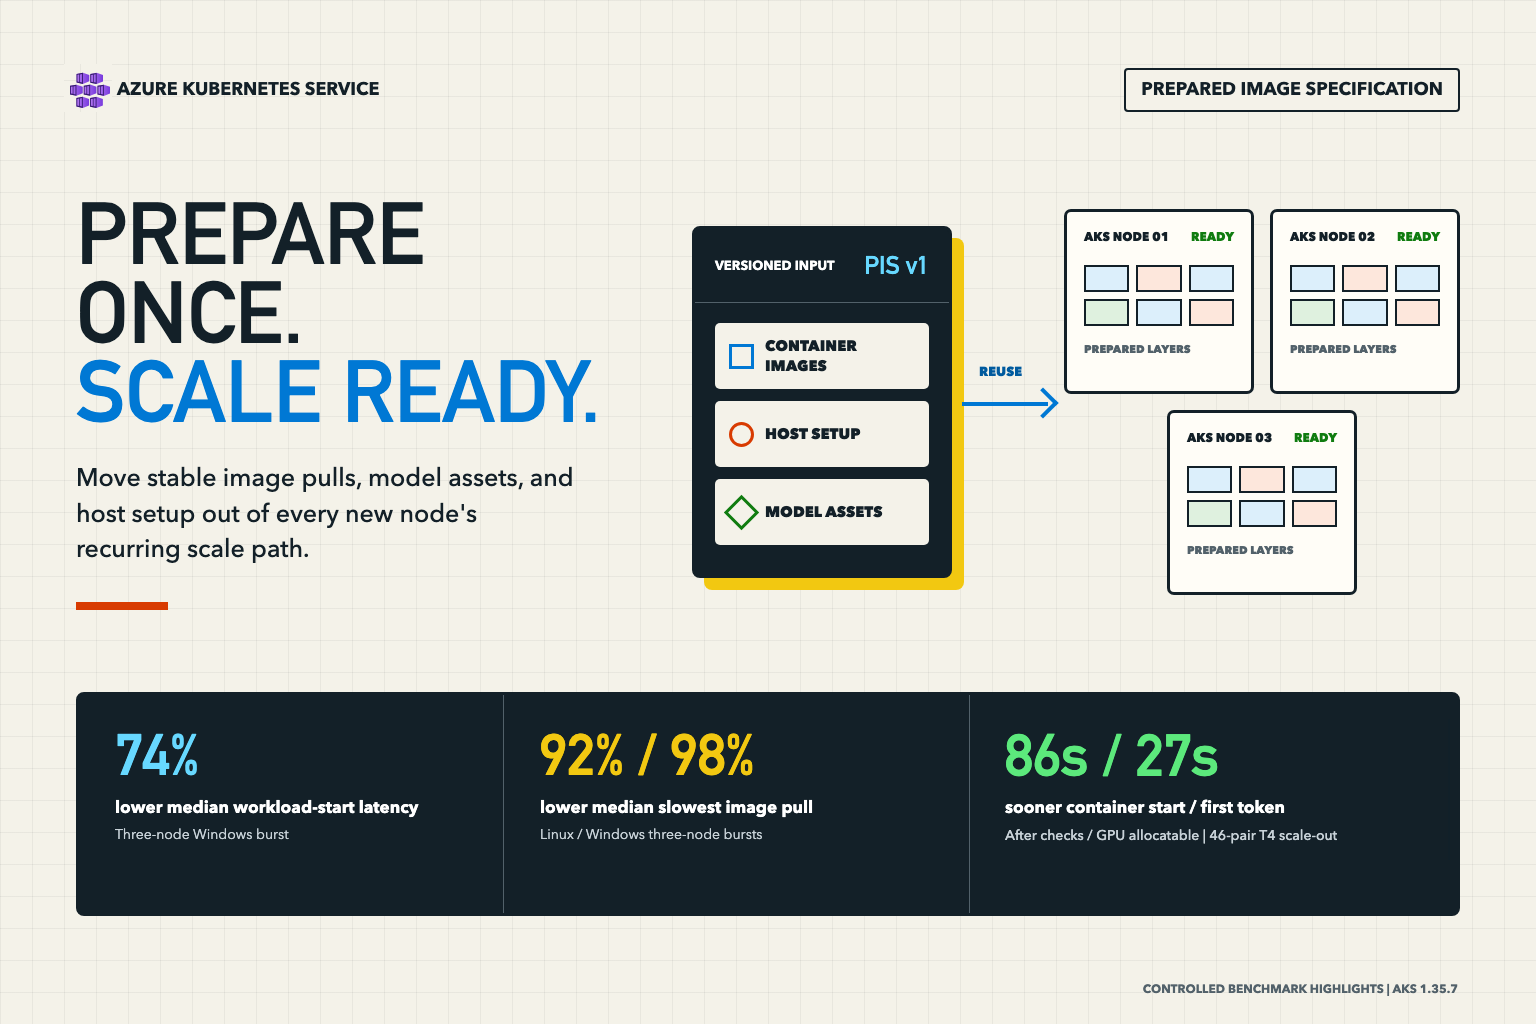
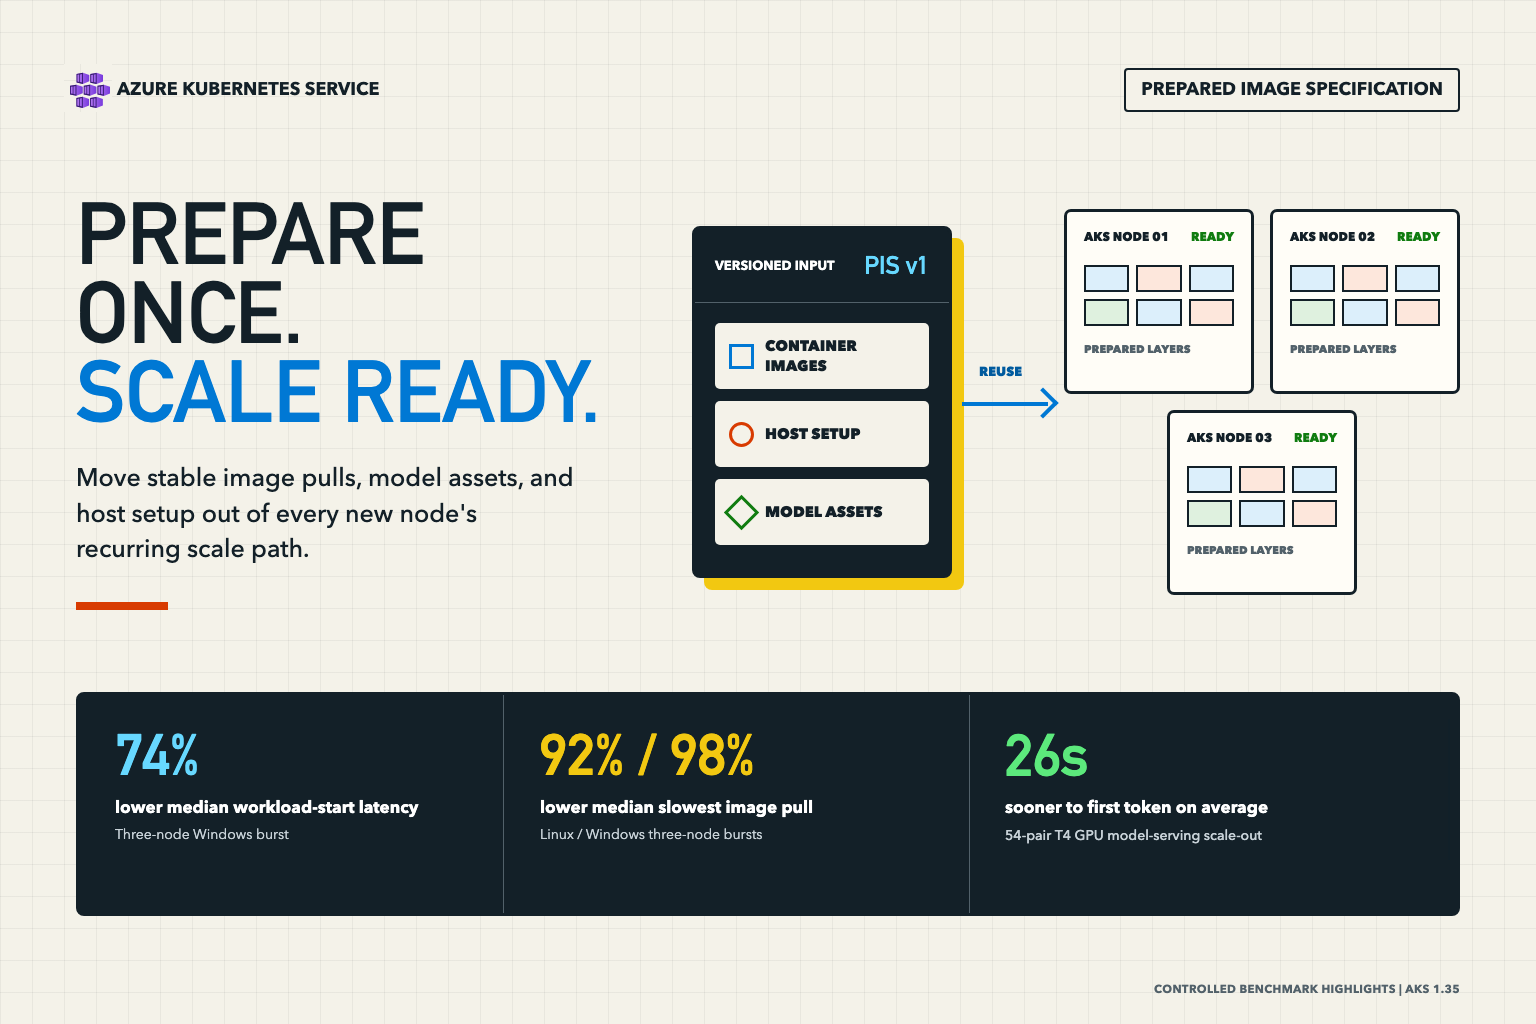
docs(blog): update GPU results with 54-pair rerun

Changed region(s): [[0.6562, 0.7188, 0.875, 0.8438], [0.75, 0.9375, 0.9375, 0.9688], [0.6562, 0.7188, 0.6875, 0.75]]

diff --git a/website/blog/2026-09-02-reducing-aks-cold-starts-with-prepared-image-specification/index.md b/website/blog/2026-09-02-reducing-aks-cold-starts-with-prepared-image-specification/index.md
@@ -21,7 +21,7 @@ Prepared Image Specification (PIS) moves stable, repeated preparation into an AK
 
 ![Prepared Image Specification reuses prepared container images, host setup, and model assets across new AKS nodes](./hero-image.png)
 
-In our controlled comparisons of otherwise-equivalent standard and PIS-backed pools, the strongest result was a Windows burst that added three nodes: median time to start all three workloads fell from 810 seconds to 202 seconds, a **74%** reduction. For a T4 graphics processing unit (GPU) model-serving pool, PIS returned the first token **14 seconds sooner on average** across 46 paired scale-outs. Not every scenario improved, and the results section explains where the time went.
+In our controlled comparisons of otherwise-equivalent standard and PIS-backed pools, the strongest result was a Windows burst that added three nodes: median time to start all three workloads fell from 810 seconds to 202 seconds, a **74%** reduction. For a T4 graphics processing unit (GPU) model-serving pool, PIS returned the first token **26 seconds sooner on average** across 54 paired scale-outs. Not every scenario improved, and the results section explains where the time went.
 
 > **Preview notice:** PIS is currently an AKS preview feature. Preview features are opt-in, provided as-is and as-available, and not intended for production use. Review the current prerequisites, regions, limitations, and support policy before testing it.
 
@@ -53,22 +53,22 @@ The table separates the customer-visible outcomes. Reductions mean the PIS-backe
 | Large image pulls during a three-node burst | Slowest new-node pull completed | Linux: 11 s → under 1 s<br />Windows: 22 s → under 1 s | **92% at Linux median**<br />**98% at Windows median** |
 | Install a pinned portable runtime | Runtime verified and workload started | Linux: 123 s → 107 s<br />Windows: 320 s → 207 s | **10% at Linux median**<br />**34% at Windows median** |
 | Prepare a large dependency bundle | Dependencies verified and workload started | Linux: 135 s → 110 s<br />Windows: 252 s → 242 s | **20% at Linux median**<br />**5% at Windows median** |
-| Serve a model on a T4 GPU node | Model healthy and first token returned | First token: 515 s → 502 s mean<br />Model ready: 482 s → 468 s mean | **14 seconds sooner on average**<br />**At p95: 543 s → 537 s to first token**<br />**At p95: 510 s → 503 s to model ready** |
+| Serve a model on a T4 GPU node | Model healthy and first token returned | First token: 484 s → 458 s mean<br />Model ready: 451 s → 425 s mean | **26 seconds sooner on average**<br />**Similar at p95: 511 s → 517 s to first token** |
 | Apply a small Linux certificate authority (CA) and policy setup | Setup verified and workload started | 127 s → 144 s median | **14% slower at median**<br />**Tail latency favored PIS** |
 
 <!-- markdownlint-enable MD033 -->
 
 ### How to read these results
 
-Each result compares matched standard and PIS-backed pools. The timer starts with the scale request and stops at the outcome in the table; PIS creation and initial pool setup are not included. Percentages are the median or p90 of same-round improvements, while the time column shows each pool's own median, so the two can differ slightly. The GPU row uses means because its 46 pairs support confidence intervals. Times are rounded to whole seconds.
+Each result compares matched standard and PIS-backed pools. The timer starts with the scale request and stops at the outcome in the table; PIS creation and initial pool setup are not included. Percentages are the median or p90 of same-round improvements, while the time column shows each pool's own median, so the two can differ slightly. The GPU row uses means because its 54 pairs support confidence intervals. Times are rounded to whole seconds.
 
-Image tests used 100 same-round pairs per operating system, customization tests used 10 same-round pairs per cell, and the GPU test used 46 pairs in which scale requests were issued concurrently to two matched clusters, each scaling from one to two nodes. VM size, AKS node image, networking, artifacts, and workload were held constant.
+Image tests used 100 same-round pairs per operating system, customization tests used 10 same-round pairs per cell, and the GPU test used 54 pairs in which scale requests were issued concurrently to two matched clusters, each scaling from one to two nodes. VM size, AKS node image, networking, artifacts, and workload were held constant.
 
-The customization and GPU preparation checks ran through Azure VM Run Command, whose status was polled about every 30 seconds, so those steps have roughly 30-second resolution. Treat the 10-pair customization results, including their medians, as directional.
+The customization and GPU preparation checks ran through Azure VM Run Command, whose status was polled about every 30 seconds, so those steps have roughly 30-second resolution. The GPU test also recorded timestamps on the node to measure the model check precisely. Treat the 10-pair customization results, including their medians, as directional.
 
 These are controlled observations, not service-level objectives. The tests did not measure cost savings, production traffic, autoscaler decisions, cross-region variation, throughput, upgrades, or long-lived drift.
 
-Preparation also has a one-time cost. Creating a PIS-backed pool took about 22 minutes at the median for the customization pools and 26 minutes for the GPU pool, compared with about 5 minutes for the standard GPU pool. That time is spent when the pool is created or its prepared image is rebuilt, not on each scale-out.
+Preparation also has a one-time cost. Creating a PIS-backed pool took about 22 minutes at the median for the customization pools and 30 minutes for the GPU pool, compared with about 4 minutes for the standard GPU pool. That time is spent when the pool is created or its prepared image is rebuilt, not on each scale-out.
 
 ### Where the time went
 
@@ -80,16 +80,18 @@ Preparation also has a one-time cost. Creating a PIS-backed pool took about 22 m
 
 | Stage (mean) | Standard | PIS | Difference |
 | --- | ---: | ---: | --- |
-| Scale request to GPU allocatable | 251 s | 265 s | PIS 13 s later |
-| GPU allocatable to model check finished | 106 s | 154 s | PIS 47 s longer |
-| Model check finished to container started | 97 s | 11 s | PIS 86 s sooner |
-| Container started to model ready | 27 s | 39 s | PIS 11 s longer |
+| Scale request to GPU allocatable | 219 s | 214 s | PIS 5 s sooner |
+| GPU allocatable to model check finished | 99 s | 161 s | PIS 62 s longer |
+| Model check finished to container started | 106 s | 12 s | PIS 95 s sooner |
+| Container started to model ready | 27 s | 38 s | PIS 11 s longer |
 | Model ready to first token | 33 s | 34 s | About the same |
-| **Scale request to first token** | **515 s** | **502 s** | **PIS 14 s sooner** |
+| **Scale request to first token** | **484 s** | **458 s** | **PIS 26 s sooner** |
 
-The preloaded container image saved 86 seconds, but PIS gave back most of that time in other stages. PIS-backed nodes became allocatable 13 seconds later, and most of that delay occurred before the node object appeared. The model check took about 47 seconds longer even though the PIS node only verified a model that was already present, and the model took 11 seconds longer to load. We didn't trace the cause; it is consistent with slower first reads from a newly created disk, while the standard node read a model it had just written. At 30-second resolution, the PIS model check finished one or two polling intervals later in most pairs. The 95% confidence intervals for the paired mean savings were 5 to 24 seconds for model readiness and 4 to 23 seconds for first token.
+The preloaded container image saved 95 seconds, but PIS gave back much of that time in two later stages. Timestamps recorded on the nodes show why. The standard node downloaded the 2.4 GB model in 58 seconds and then hash-verified it in 2 seconds, because the file it had just written was still in memory. The PIS-backed node only had to verify the prepared model, but that check took 115 seconds, about 21 MB per second, because it was the first read of that data from the new node's disk. The model also took 11 seconds longer to load on the PIS-backed node. Time to GPU allocatable was similar for both pools.
 
-For large models, measure each stage rather than only the total. Reducing redundant verification of a model that was already checked during the image build, or reading the model before the workload needs it, may recover time that PIS currently gives back.
+The 95% confidence intervals for the paired mean savings were 17 to 36 seconds for model readiness and 16 to 35 seconds for first token, and PIS returned the first token sooner in 43 of 54 pairs. At p95, the two pools were within 6 seconds of each other.
+
+For large models, measure each stage rather than only the total. On this path, the first read of the prepared model was the largest remaining cost. Avoiding a full re-hash of a model that was already verified during the image build, or reading the model before the workload needs it, could recover much of that time.
 
 ## When to use PIS
 
